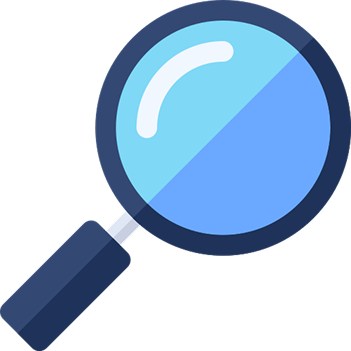
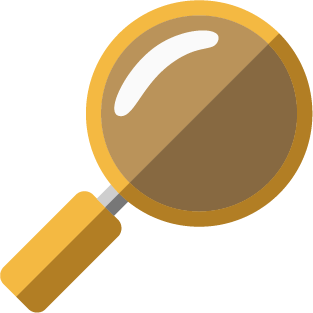
img-loupe changée
Changement im--loupe pour avoir 100% droits (source loupe bleue = https://www.flaticon.com/fr/icone-gratuite/loupe_3721591)

diff --git a/src/styles/app.scss b/src/styles/app.scss
@@ -139,7 +139,7 @@ p{
     grid-column: 1/-1;
     text-align: center;
     margin: 0;
-    background: linear-gradient(0.25turn, #56767e, #927b4d);
+    background: linear-gradient(0.25turn, #c07615, #f3a200);
     background-clip: text;
     color: transparent;
 }
